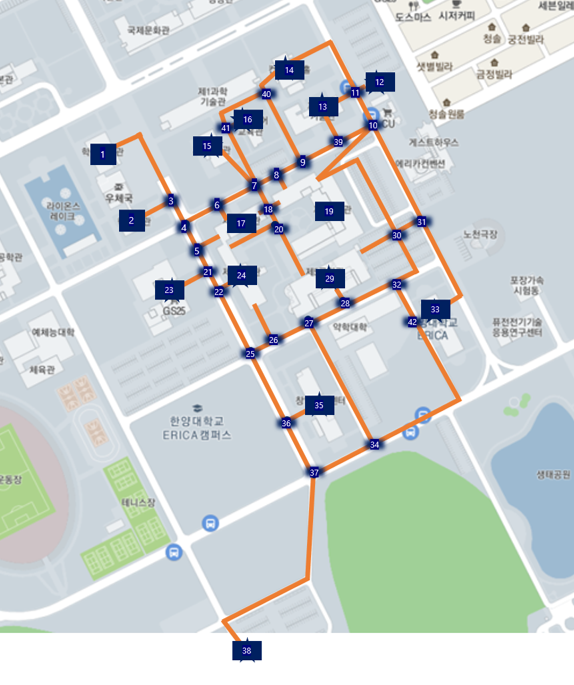
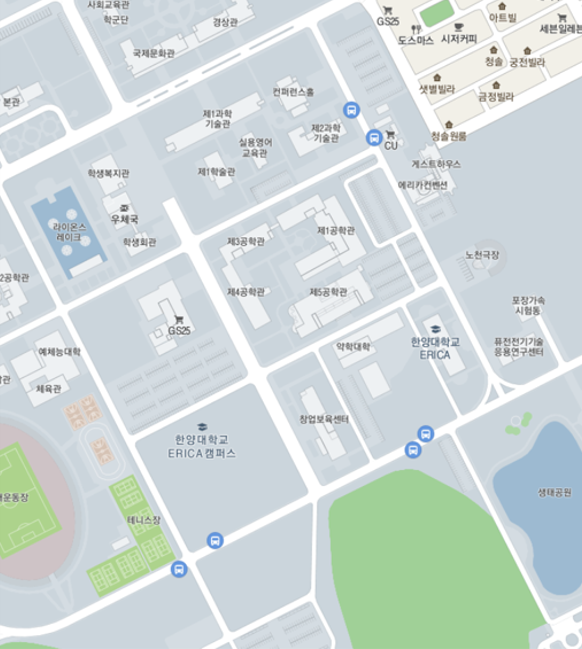
image&code:spot.py&map_spot.png: spot추가 및변환 spot을 추가하고 그에 맞게 코드를 수정함

diff --git a/code/Time_Check/spot.py b/code/Time_Check/spot.py
@@ -1,45 +1,72 @@
 
 spot_list=[[],[],[],[],[],[],[],[],[],[],[],[],[],[],[],[],[],[],[],[],[],[],[],[],[],[],[],[],[],[],[],[],[],[],[],[],[],[],[],[],[],[],[],[],[],[],[],[],[],[]]
-spot_list[1]=[(3,2)]
+spot_list[1]=[(3,2),(44,0.6)]
 spot_list[2]=[(3,0.5)]   
-spot_list[3]=[(1,2),(2,0.5),(4,0.3)]
+spot_list[3]=[(44,1.5),(2,0.5),(4,0.3)]
 spot_list[4]=[(3,0.3),(5,0.3),(6,0.7)]
-spot_list[5]=[(4,0.3),(17,0.1),(21,0.3)]
-spot_list[6]=[(4,0.7),(7,0.7),(17,0.15)]
+spot_list[5]=[(4,0.3),(47,0.25),(21,0.3)]
+spot_list[6]=[(4,0.7),(7,0.7),(45,0.2)]
 spot_list[7]=[(6,0.7),(8,0.2),(15,1),(41,1),(18,0.2)]
-spot_list[8]=[(7,0.2),(9,0.3),(19,0)]
-spot_list[9]=[(8,0.3),(39,0.5),(19,0.1),(40,1.5)]
-spot_list[10]=[(39,0.5),(19,2),(31,2.5),(11,0.2)]
-spot_list[11]=[(10,0.2),(12,0.5),(13,0.2),(14,2)]
+spot_list[8]=[(7,0.2),(9,0.3),(49,0.15)]
+spot_list[9]=[(8,0.3),(39,0.5),(50,0.2),(40,1.5)]
+spot_list[10]=[(39,0.5),(31,2.5),(11,0.2)]
+spot_list[11]=[(10,0.2),(12,0.5),(57,0.2),(52,0.8)]
 spot_list[12]=[(11,0.5),(43,10)] # 셔틀콕
-spot_list[13]=[(39,0.2),(11,0.2)]
-spot_list[14]=[(40,0.2),(11,2)]
 spot_list[15]=[(7,1),(41,0.1)]
 spot_list[16]=[(41,0.1)]
-spot_list[17]=[(5,0.1),(6,0.15),(18,0.1),(24,0.3)]
-spot_list[18]=[(7,0.2),(17,0.1),(19,0),(20,0.1)]
-spot_list[19]=[(8,0),(9,0.1),(10,2),(30,2),(18,0)]
-spot_list[20]=[(26,1.9),(18,0.1),(24,1),(29,1)]
+spot_list[18]=[(7,0.2),(46,0.1),(48,0.1),(20,0.1)]
+spot_list[20]=[(26,1.9),(18,0.1),(59,0.7),(67,0.9)]
 spot_list[21]=[(5,0.3),(23,0.2),(22,0.4)]
-spot_list[22]=[(21,0.4),(24,0.2),(25,1.5)]
+spot_list[22]=[(21,0.4),(62,0.25),(25,1.5)]
 spot_list[23]=[(21,0.2)]
-spot_list[24]=[(22,0.2),(17,0.3),(20,1),(26,0.5)]
 spot_list[25]=[(22,1.5),(26,0.3),(36,1.5)]
-spot_list[26]=[(20,1.9),(24,0.5),(25,0.3),(27,0.5)]
-spot_list[27]=[(26,0.5),(34,3),(28,0.3)]
-spot_list[28]=[(27,0.3),(29,0.25),(32,1)]
-spot_list[29]=[(20,1),(28,0.25),(30,0.7)]
-spot_list[30]=[(19,2),(29,0.7),(32,1.5),(31,0.5)]
-spot_list[31]=[(10,2.4),(30,0.5),(33,2)]
-spot_list[32]=[(30,1.5),(42,0.5),(28,1),(33,0.5)]
-spot_list[33]=[(31,2),(42,0),(32,0.5)]
-spot_list[34]=[(42,4),(27,3),(37,1)]
+spot_list[26]=[(20,1.9),(63,0.4),(25,0.3),(64,0.2)]
+spot_list[27]=[(64,0.3),(34,3),(28,0.3)]
+spot_list[28]=[(27,0.3),(68,0.25),(70,0.9)]
+spot_list[30]=[(51,1.3),(69,0.7),(71,0.7),(31,0.5)]
+spot_list[31]=[(10,2.4),(30,0.5),(74,2)]
+spot_list[32]=[(70,0.3),(42,0.5),(72,0.35)]
+spot_list[34]=[(75,2),(27,3),(37,1)]
 spot_list[35]=[(36,0.2)]
 spot_list[36]=[(25,1.5),(35,0.2),(37,0.9)]
-spot_list[37]=[(36,0.9),(34,1),(38,4)]
-spot_list[38]=[(37,4)] #기숙사
-spot_list[39]=[(9,0.5),(13,0.2),(10,0.5)]
-spot_list[40]=[(41,1),(9,0.5),(14,0.2)]
-spot_list[41]=[(15,0.1),(16,0.1),(40,1),(7,1)]
-spot_list[42]=[(32,0.5),(33,0),(34,4)]
+spot_list[37]=[(36,0.9),(34,1),(76,2)]
+spot_list[38]=[(77,0.8)] #기숙사
+spot_list[39]=[(9,0.5),(50,0.8),(58,0.2),(10,0.5)]
+spot_list[40]=[(56,0.8),(9,0.5),(55,0.1)]
+spot_list[41]=[(15,0.1),(16,0.1),(56,0.8),(7,1)]
+spot_list[42]=[(32,0.5),(73,0.1),(75,2)]
 spot_list[43]=[(12,10)] # 한대앞
+spot_list[44]=[(1,0.5),(3,1.5)]
+spot_list[45]=[(6,0.2),(47,0.5),(46,0.8)]
+spot_list[46]=[(45,0.8),(47,0.9),(18,0.1)]
+spot_list[47]=[(5,0.25),(60,0.12),(45,0.5),(46,0.9)]
+spot_list[48]=[(18,0.1),(49,0.3),(50,0.7)]
+spot_list[49]=[(8,0.15),(48,0.3),(50,0.6)]
+spot_list[50]=[(9,0.2),(39,0.8),(51,0.6),(49,0.5),(48,0.7)]
+spot_list[51]=[(50,0.5),(30,1.3)]
+spot_list[52]=[(11,0.8),(53,0.5)]
+spot_list[53]=[(52,0.5),(54,0.5)]
+spot_list[54]=[(53,0.5),(55,0.2)]
+spot_list[55]=[(40,0.1),(54,0.2)]
+spot_list[56]=[(41,0.8),(40,0.8)]
+spot_list[57]=[(11,0.2),(58,0.5)]
+spot_list[58]=[(57,0.5),(39,0.2)]
+spot_list[59]=[(61,0.2),(20,0.7),(66,0.8)]
+spot_list[60]=[(47,0.12),(62,0.2)]
+spot_list[61]=[(59,0.2),(62,0.3),(63,0.6)]
+spot_list[62]=[(22,0.25),(60,0.2),(61,0.3),(63,0.65)]
+spot_list[63]=[(26,0.4),(61,0.6),(62,0.65),(64,0.55),(66,0.15)]
+spot_list[64]=[(26,0.2),(63,0.55),(66,0.3),(27,0.3)]
+spot_list[65]=[(66,0.2),(67,0.55),(68,0.6),(69,0.8)]
+spot_list[66]=[(59,0.8),(63,0.15),(64,0.3),(65,0.2)]
+spot_list[67]=[(20,0.9),(65,0.55),(68,0.5),(69,0.9)]
+spot_list[68]=[(28,0.25),(65,0.6),(67,0.5),(69,0.5)]
+spot_list[69]=[(30,0.7),(68,0.5),(67,0.9),(65,0.8)]
+spot_list[70]=[(28,0.9),(71,0.3),(32,0.3)]
+spot_list[71]=[(30,0.5),(70,0.3)]
+spot_list[72]=[(32,0.35),(73,0.5),(74,0.5)]
+spot_list[73]=[(42,0.1),(72,0.5),(74,0.5)]
+spot_list[74]=[(31,2),(72,0.5),(73,0.5)]
+spot_list[75]=[(42,2),(34,2)]
+spot_list[76]=[(37,2),(77,1.8)]
+spot_list[77]=[(76,1.8),(38,0.8)]
